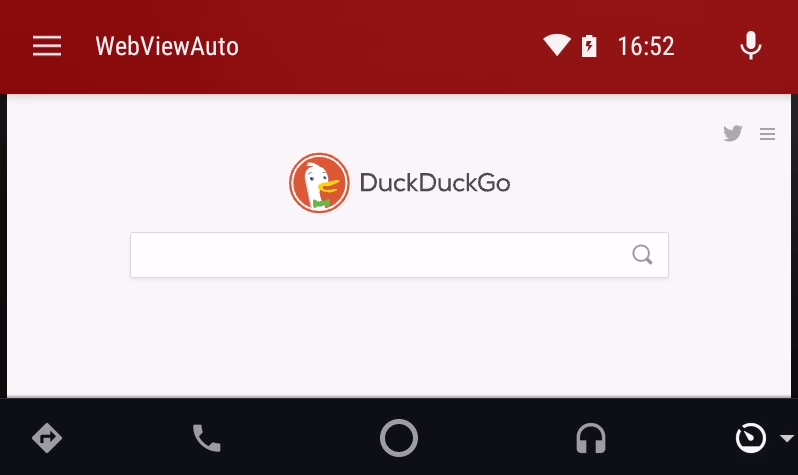
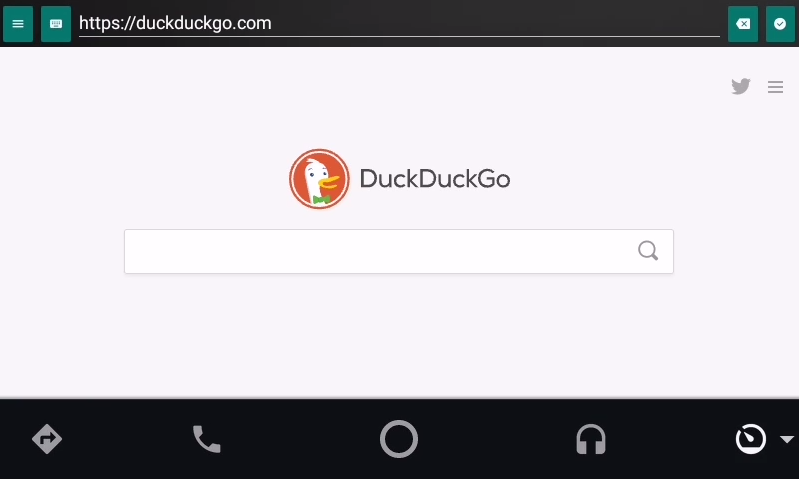
refactor UI

diff --git a/README.md b/README.md
@@ -14,6 +14,12 @@ I am not responsible for any damage caused by this application.
 - Change URL
 - Input text into HTML fields
 
+## TO-DO:
+
+- Favorite system
+- Back
+- Auto-show keyboard when clicking on an <input> in HTML
+
 ## How to use:
 
 - Build and install APK (If you want to skip the build, [download APK here](https://github.com/nerone-github/WebViewAuto/raw/master/apk/webviewauto.apk).
@@ -28,3 +34,4 @@ I am not responsible for any damage caused by this application.
 ![alt text](https://raw.githubusercontent.com/nerone-github/WebViewAuto/master/images/browser1.png)
 ![alt text](https://raw.githubusercontent.com/nerone-github/WebViewAuto/master/images/browser2.png)
 ![alt text](https://raw.githubusercontent.com/nerone-github/WebViewAuto/master/images/browser3.png)
+![alt text](https://raw.githubusercontent.com/nerone-github/WebViewAuto/master/images/browser4.png)
